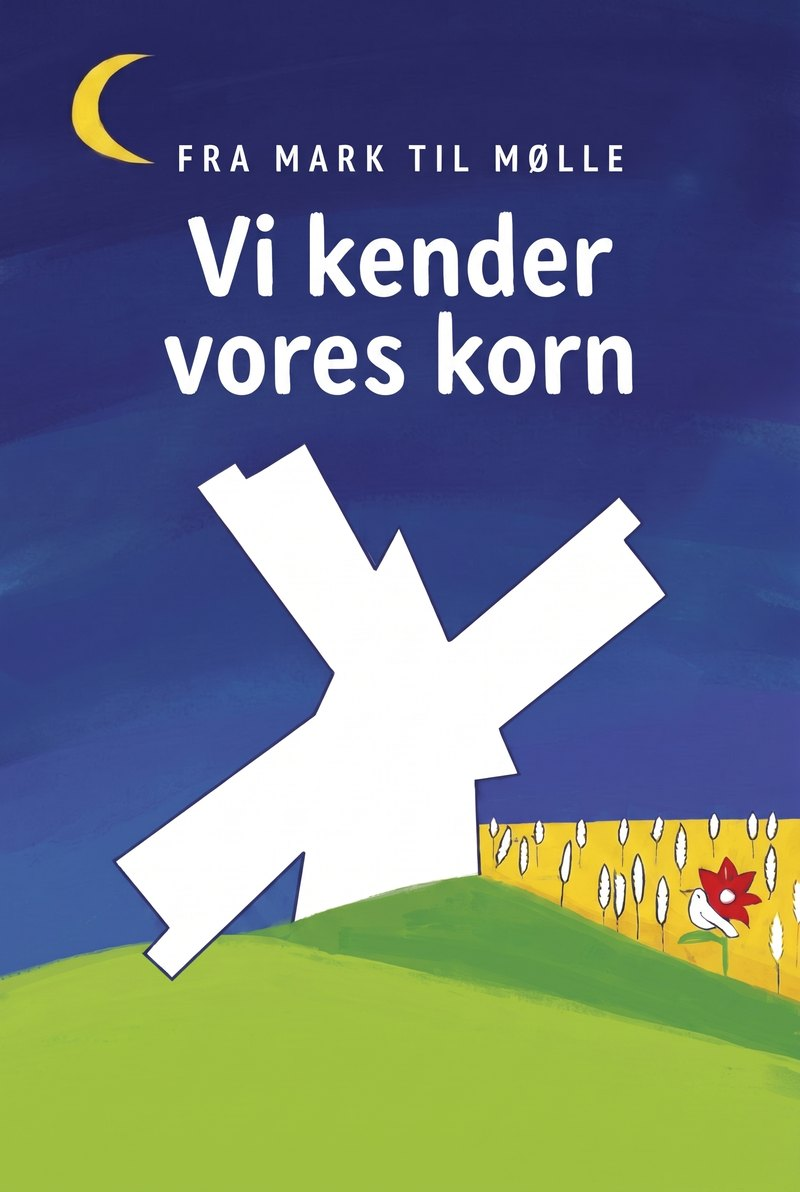
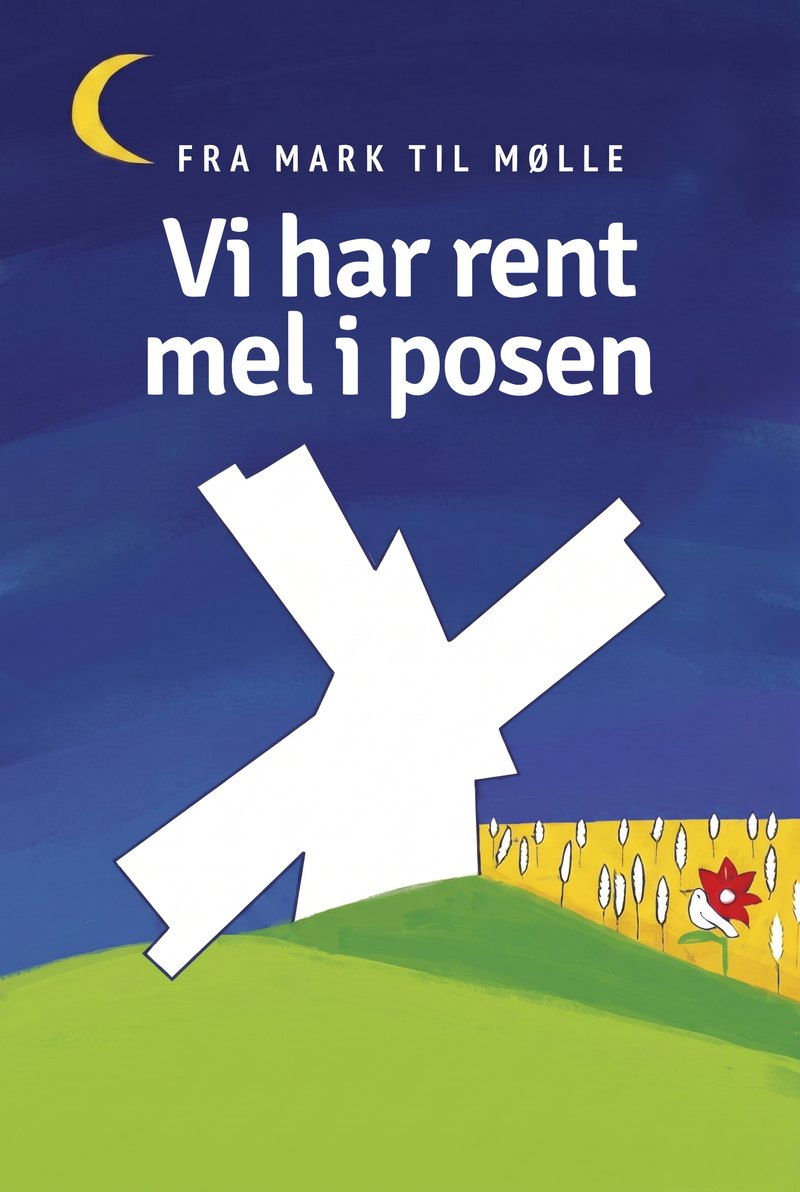
Add files via upload

Changed region(s): [[0.1562, 0.1552, 0.8125, 0.3725]]

diff --git a/index.html b/index.html
@@ -523,7 +523,7 @@
   <div class="nl-modal" id="nlModal" role="dialog" aria-modal="true" aria-label="Vores korn">
     <div class="nl-backdrop" data-nl-close></div>
     <div class="nl-card" tabindex="-1">
-      <img class="nl-bg" src="images/kornart.jpg" alt="Vi kender vores korn – fra mark til mølle" loading="lazy" />
+      <img class="nl-bg" src="images/kornart.jpg" alt="Vi har rent mel i posen – fra mark til mølle" loading="lazy" />
       <button class="nl-close" data-nl-close aria-label="Luk">
         <svg width="18" height="18" viewBox="0 0 24 24" fill="none" stroke="currentColor" stroke-width="2.5"><line x1="18" y1="6" x2="6" y2="18"/><line x1="6" y1="6" x2="18" y2="18"/></svg>
       </button>
@@ -716,7 +716,7 @@
       var en = false; try { en = localStorage.getItem('qm_lang') === 'en'; } catch (e) {}
       if (en) {
         var bg = modal.querySelector('.nl-bg');
-        if (bg) { bg.src = 'images/kornarten.jpg'; bg.alt = 'We know our grain – from field to mill'; }
+        if (bg) { bg.src = 'images/kornarten.jpg'; bg.alt = 'We have nothing to hide – from field to mill'; }
         tab.textContent = 'OUR GRAIN';
         modal.setAttribute('aria-label', 'Our grain');
         if (more) more.textContent = 'Read more';
